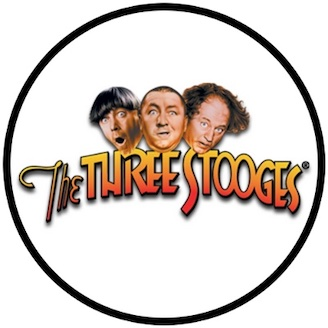
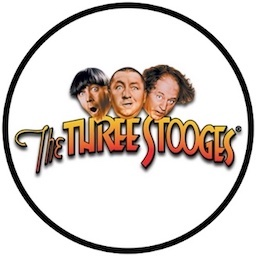
updated png  image to jpg

diff --git a/index.html b/index.html
@@ -14,12 +14,12 @@
 
 <body>
    
-    <img id="logo" src="images/hero.png" alt="three stooges character">
+    <img id="logo" src="images/hero.jpg" alt="three stooges character">
 
     <h2>I'm positive about the negative, but a little negative about the positive.</h2>
 <div id="container"></div>
-<img id="photo" src="images/circle.png" alt="three cartoon stooges">
-<img id="photo2" src="images/circle.png" alt="three cartoon stooges">
+<img id="photo" src="images/circle.jpg" alt="three cartoon stooges">
+<img id="photo2" src="images/circle.jpg" alt="three cartoon stooges">
   <div id="player">
          <video id="video-element" width="352" controls>
             <source src="assets/the_new_three_stooges_dinopoodi_512kb.mp4" type="video/mp4">
